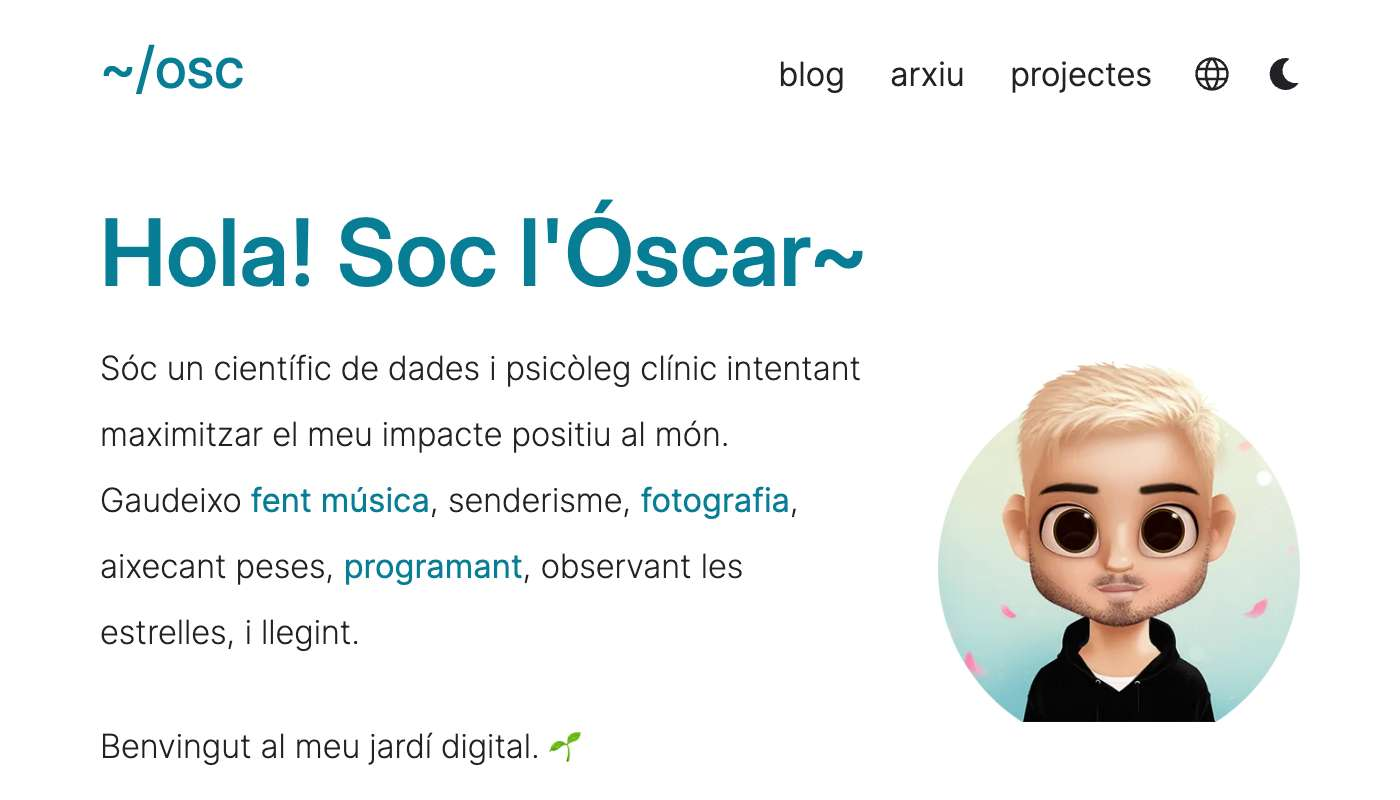
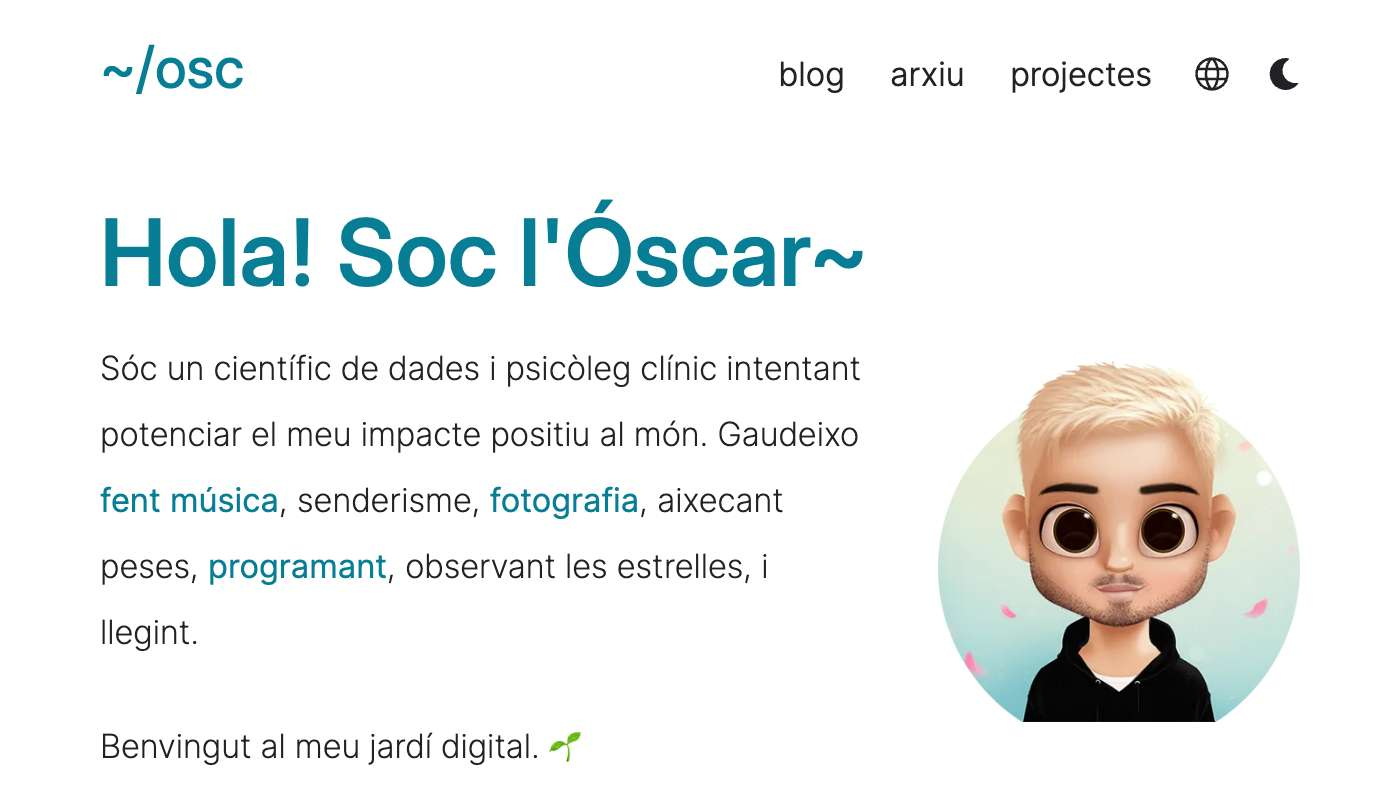
update description and tabi

diff --git a/static/custom_subset.css b/static/custom_subset.css
@@ -1,1 +1,1 @@
[2 lines of base64/hex data omitted]

diff --git a/content/_index.es.md b/content/_index.es.md
@@ -11,6 +11,6 @@ max_posts = 4
 social_media_card = "img/social_cards/es.jpg"
 +++
 
-Soy un científico de datos y psicólogo clínico tratando de maximizar mi impacto positivo en el mundo. Disfruto [haciendo música](https://soundcloud.com/oskerwyld/sets/ii_album), senderismo, [fotografía](https://instagram.com/oskerwyld), levantando pesas, [programando](https://github.com/welpo), observando las estrellas, y leyendo.
+Soy un científico de datos y psicólogo clínico tratando de potenciar mi impacto positivo en el mundo. Disfruto [haciendo música](https://soundcloud.com/oskerwyld/sets/ii_album), senderismo, [fotografía](https://instagram.com/oskerwyld), levantando pesas, [programando](https://github.com/welpo), observando las estrellas, y leyendo.
 
 Bienvenido a mi jardín digital. 🌱

diff --git a/content/_index.ca.md b/content/_index.ca.md
@@ -11,6 +11,6 @@ max_posts = 4
 social_media_card = "img/social_cards/ca.jpg"
 +++
 
-Sóc un científic de dades i psicòleg clínic intentant maximitzar el meu impacte positiu al món. Gaudeixo [fent música](https://soundcloud.com/oskerwyld/sets/ii_album), senderisme, [fotografia](https://instagram.com/oskerwyld), aixecant peses, [programant](https://github.com/welpo), observant les estrelles, i llegint.
+Sóc un científic de dades i psicòleg clínic intentant potenciar el meu impacte positiu al món. Gaudeixo [fent música](https://soundcloud.com/oskerwyld/sets/ii_album), senderisme, [fotografia](https://instagram.com/oskerwyld), aixecant peses, [programant](https://github.com/welpo), observant les estrelles, i llegint.
 
 Benvingut al meu jardí digital. 🌱
